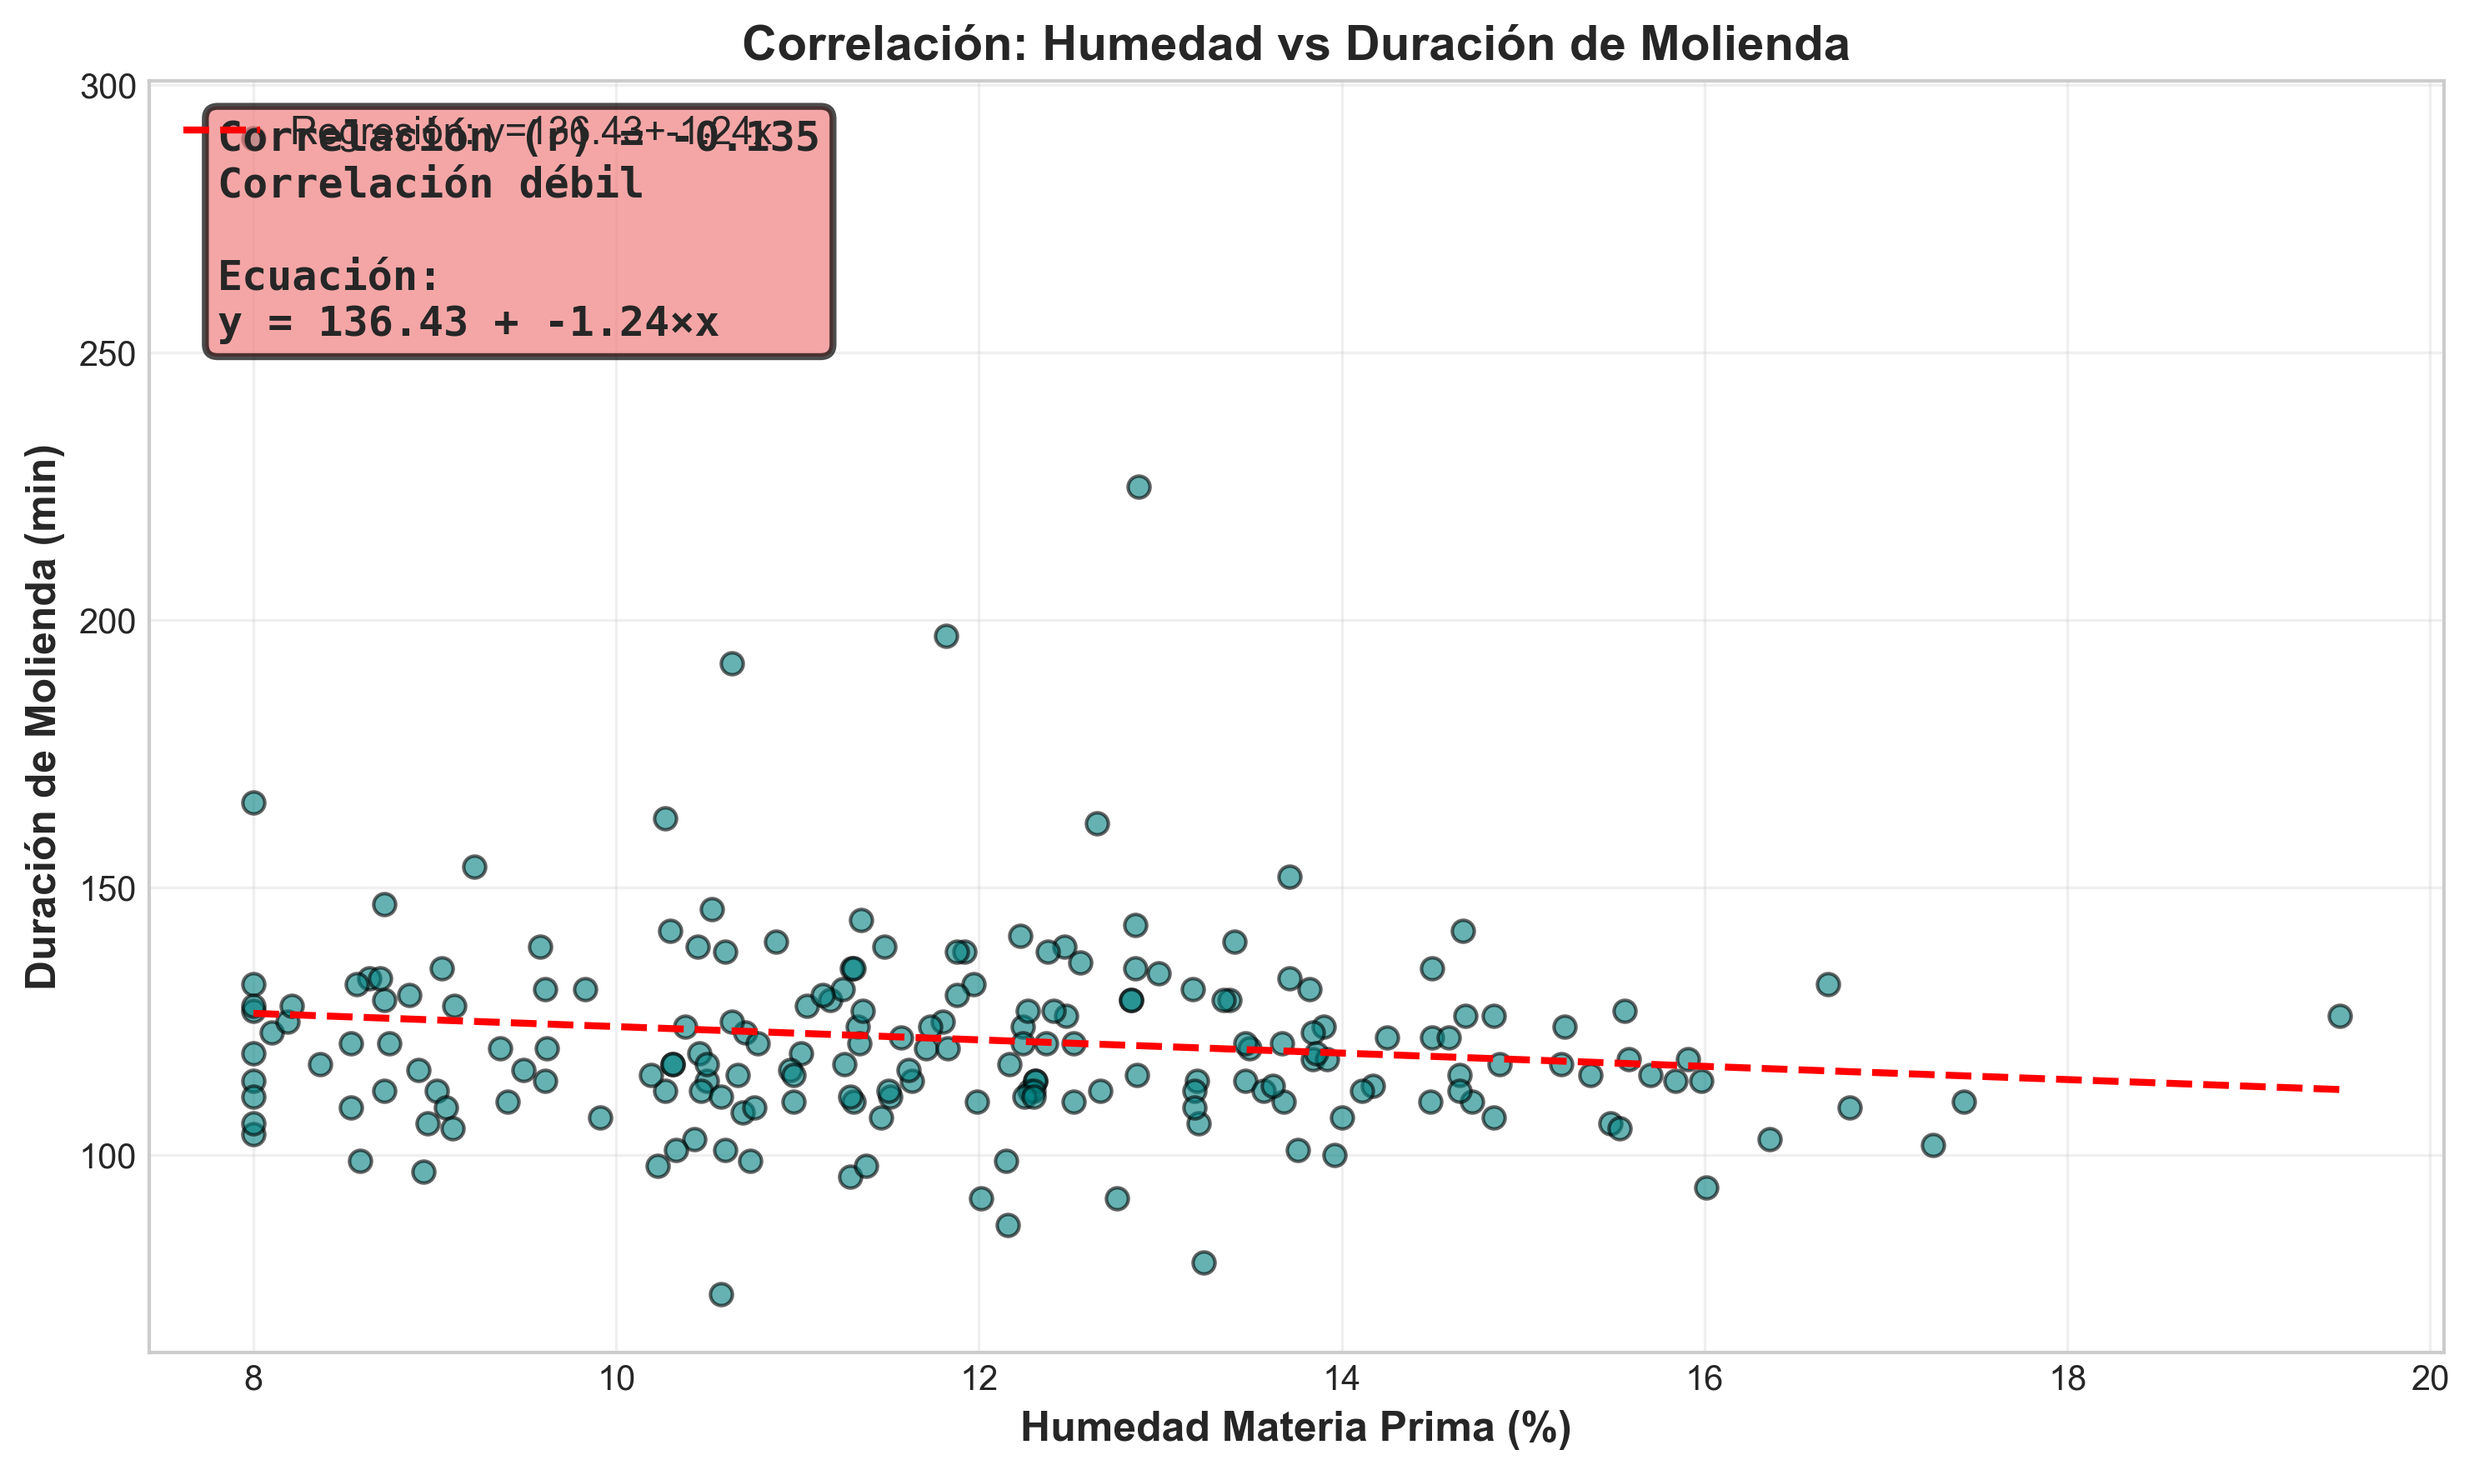
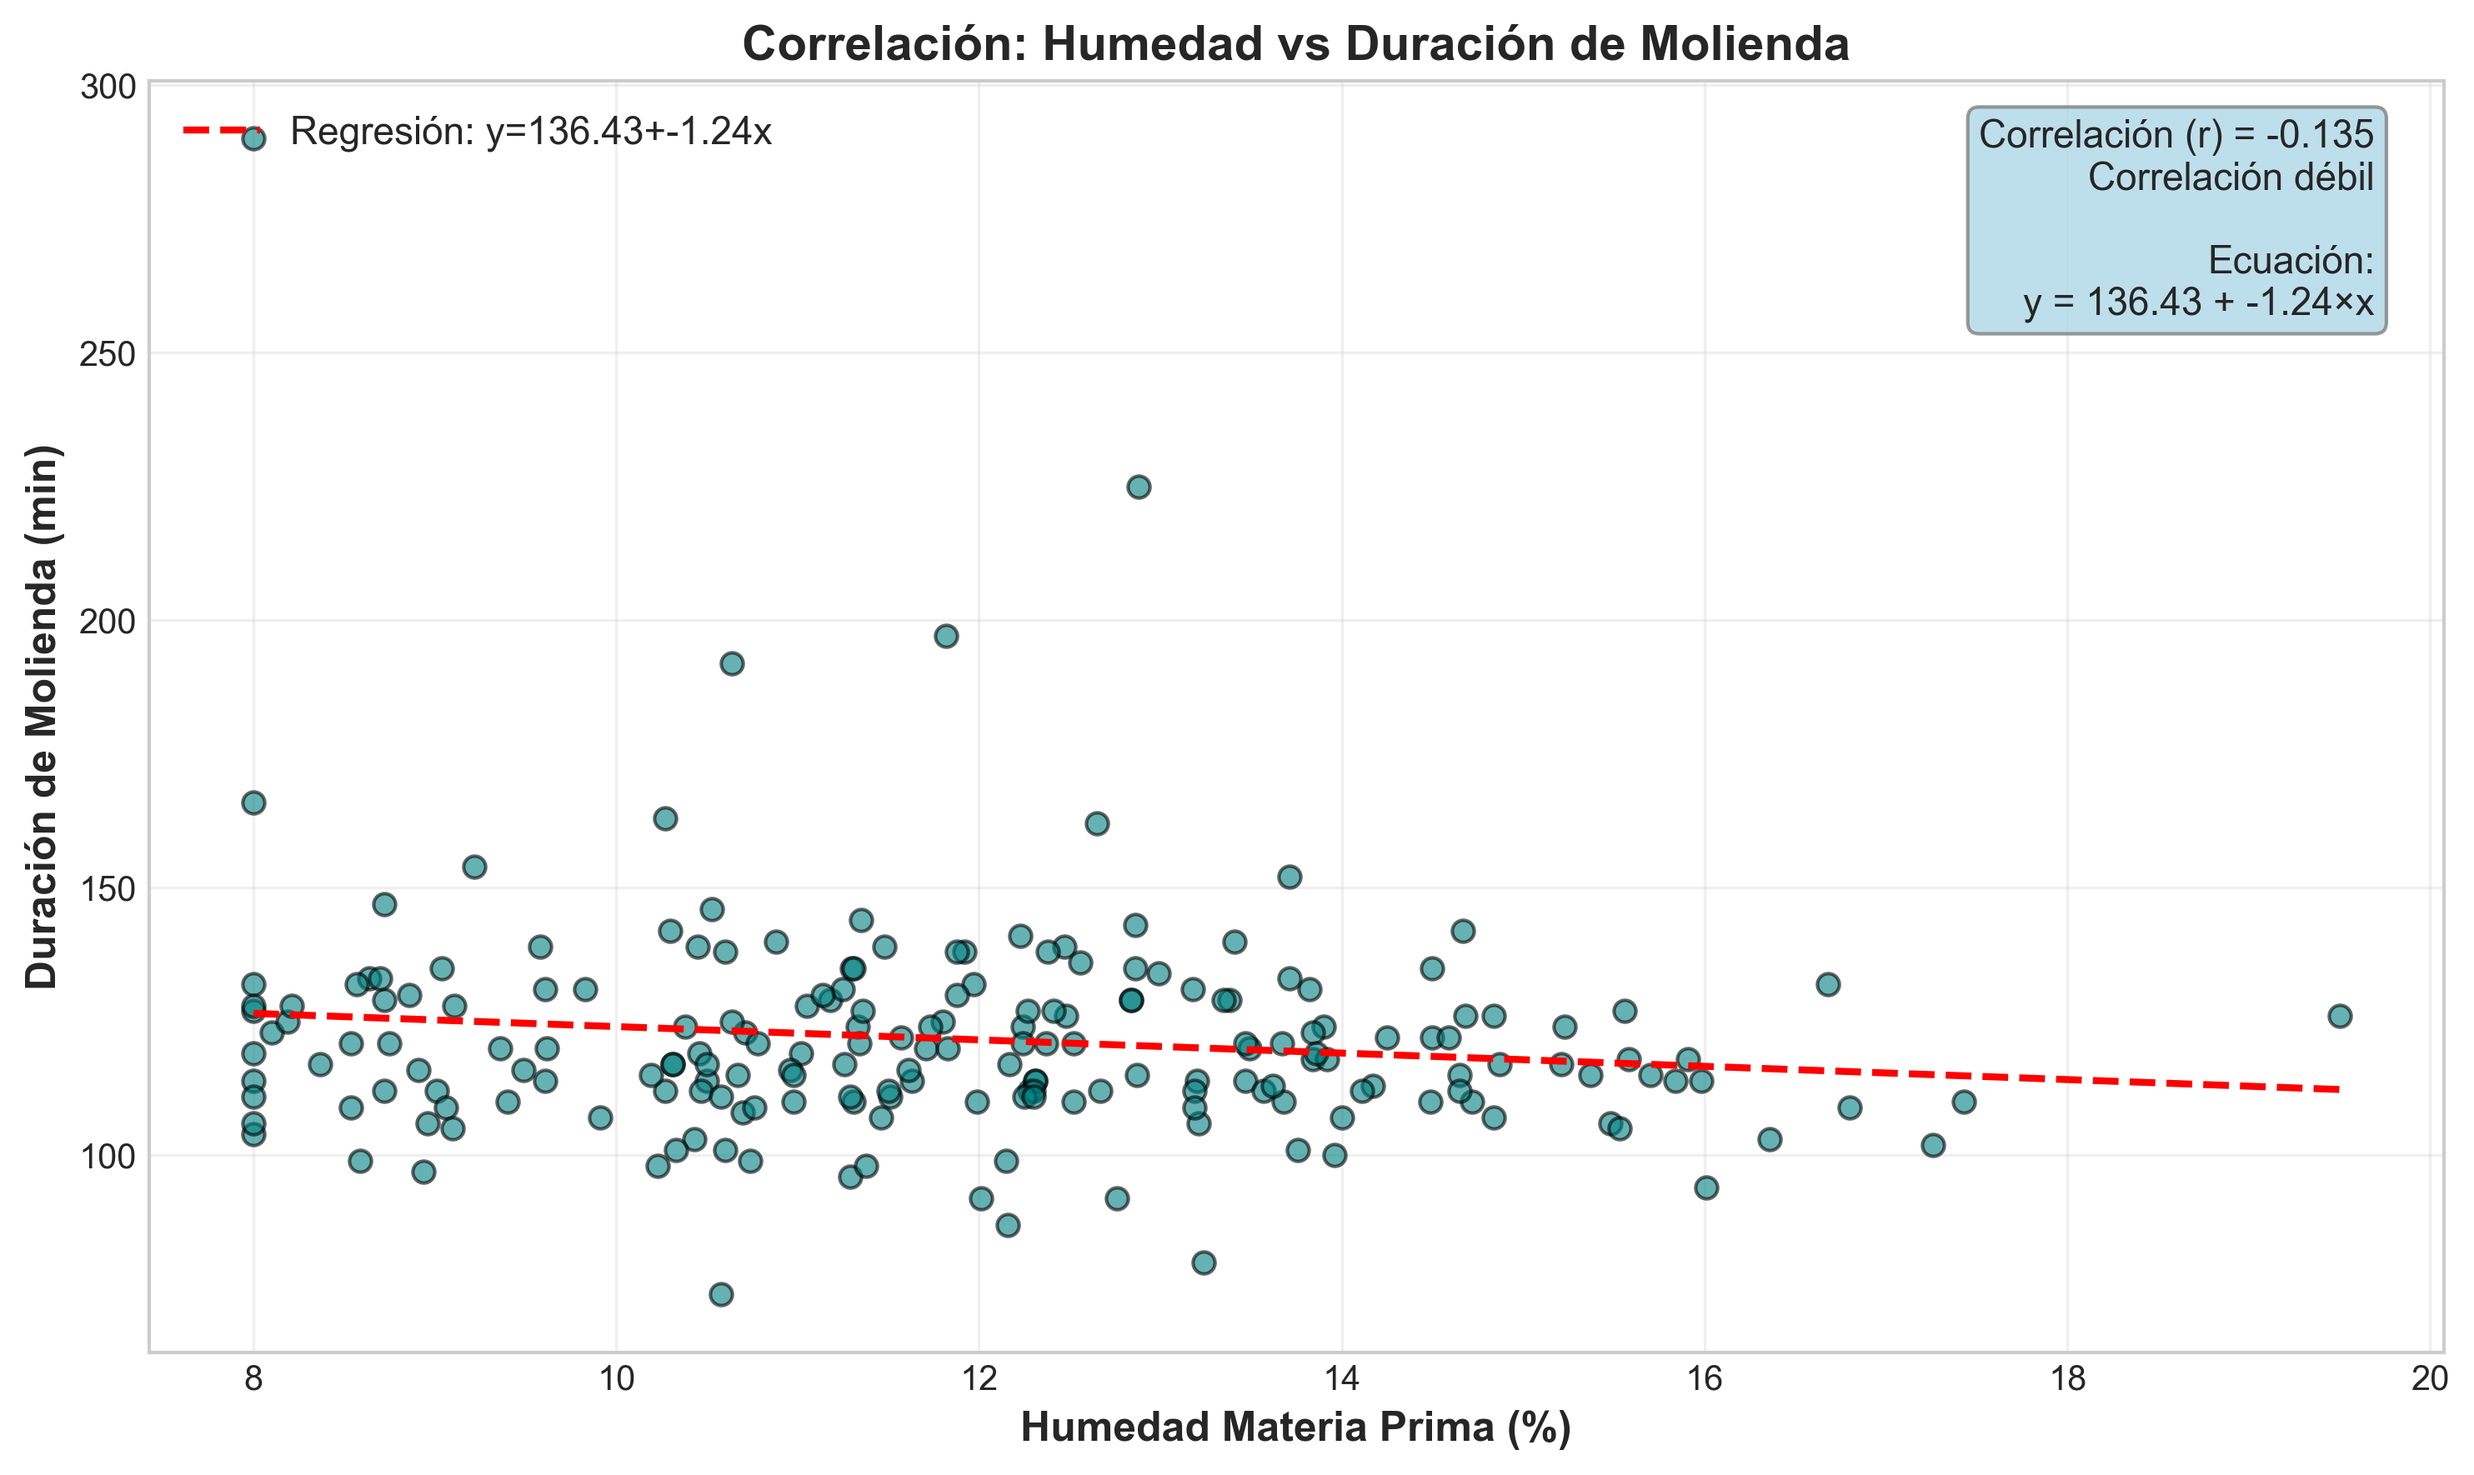
fix(entregable): fix graficos

Changed region(s): [[0.062, 0.0621, 0.341, 0.2486], [0.7749, 0.0621, 0.9919, 0.2486]]

diff --git a/scripts/generar_graficos_minitab.py b/scripts/generar_graficos_minitab.py
@@ -321,7 +321,7 @@ def plot_scatter_humidity(data, output_dir):
     ax.grid(True, alpha=0.3)
     ax.legend(loc='upper left', fontsize=11)
 
-    # Anotación correlación - más grande y legible
+    # Anotación correlación - posicionada en esquina inferior derecha
     textstr = f'Correlación (r) = {r:.3f}\n'
     if abs(r) < 0.3:
         textstr += 'Correlación débil'
@@ -335,9 +335,9 @@ def plot_scatter_humidity(data, output_dir):
 
     textstr += f'\n\nEcuación:\ny = {a:.2f} + {b:.2f}×x'
 
-    props = dict(boxstyle='round', facecolor=color_fondo, alpha=0.7, edgecolor='black', linewidth=2)
-    ax.text(0.03, 0.97, textstr, transform=ax.transAxes, fontsize=12,
-            verticalalignment='top', bbox=props, fontweight='bold', family='monospace')
+    props = dict(boxstyle='round', facecolor='lightblue', alpha=0.8, edgecolor='gray', linewidth=1)
+    ax.text(0.97, 0.97, textstr, transform=ax.transAxes, fontsize=11,
+            verticalalignment='top', horizontalalignment='right', bbox=props)
 
     plt.tight_layout()
     plt.savefig(os.path.join(output_dir, 'grafico_scatter_humedad.png'), dpi=300, bbox_inches='tight')
